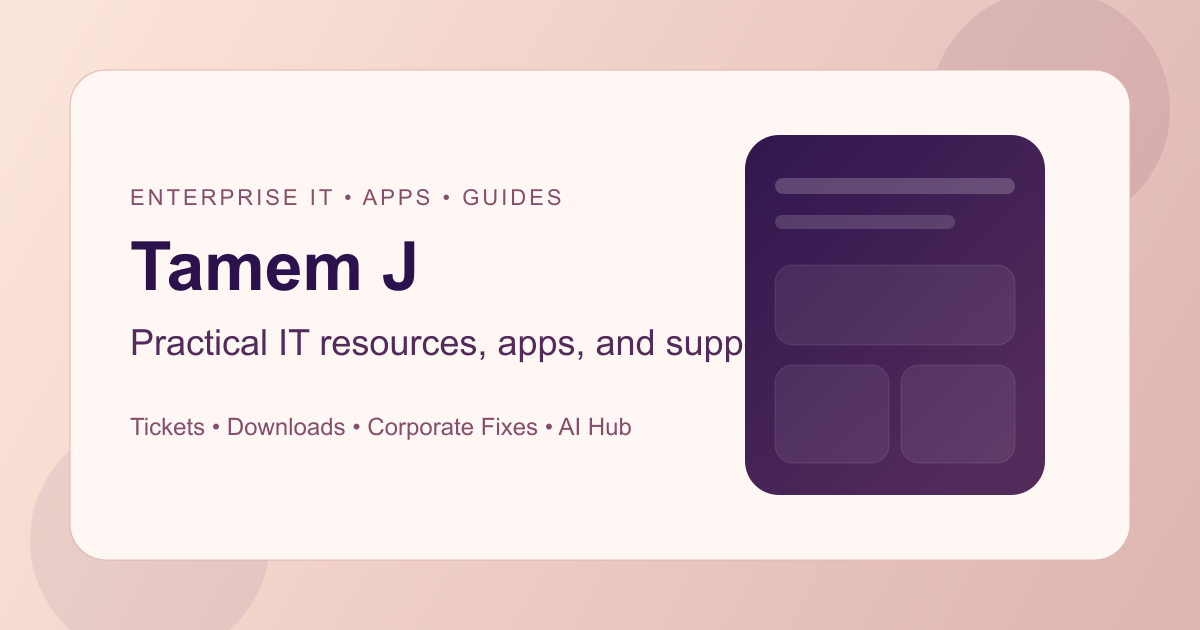
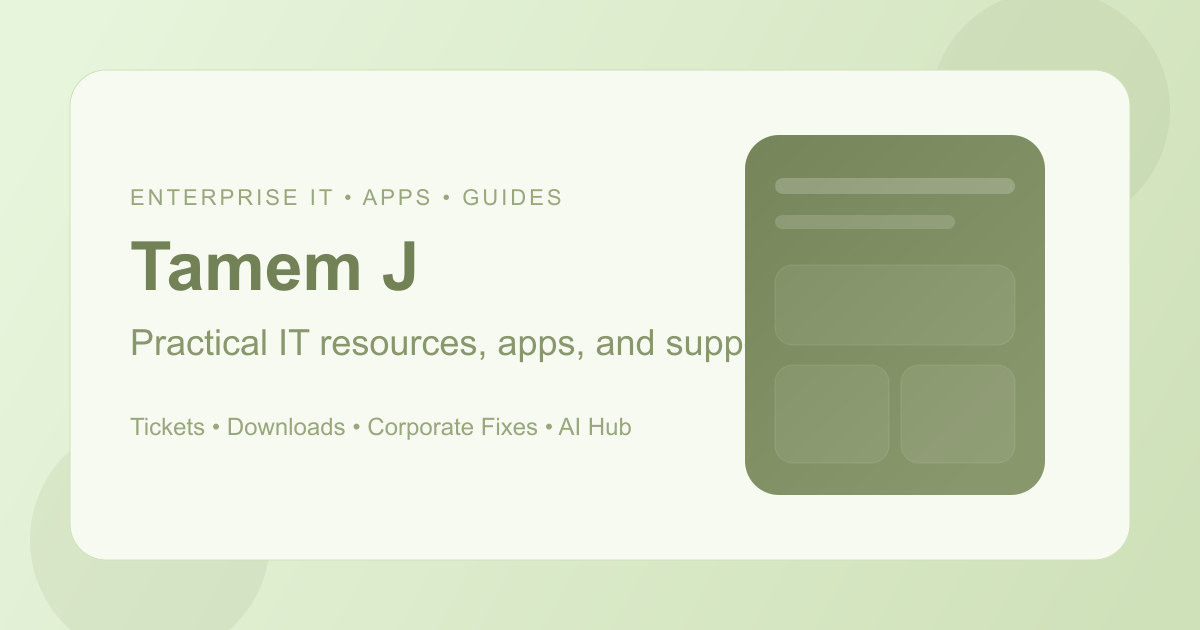
another color scheme

diff --git a/app/globals.css b/app/globals.css
@@ -3,25 +3,25 @@
 @tailwind utilities;
 
 :root {
-  --bg: 251 228 216;
-  --fg: 43 18 76;
-  --line: 223 182 178;
-  --card: 255 247 243;
-  --muted: 133 79 108;
-  --accent: 82 43 91;
-  --accent-soft: 223 182 178;
-  --accent-strong: 25 0 25;
+  --bg: 231 245 220;
+  --fg: 114 129 86;
+  --line: 207 225 185;
+  --card: 246 250 240;
+  --muted: 136 151 108;
+  --accent: 152 167 124;
+  --accent-soft: 182 201 155;
+  --accent-strong: 114 129 86;
 }
 
 .dark {
-  --bg: 25 0 25;
-  --fg: 251 228 216;
-  --line: 82 43 91;
-  --card: 43 18 76;
-  --muted: 223 182 178;
-  --accent: 133 79 108;
-  --accent-soft: 82 43 91;
-  --accent-strong: 223 182 178;
+  --bg: 114 129 86;
+  --fg: 231 245 220;
+  --line: 152 167 124;
+  --card: 136 151 108;
+  --muted: 207 225 185;
+  --accent: 182 201 155;
+  --accent-soft: 136 151 108;
+  --accent-strong: 231 245 220;
 }
 
 html {
@@ -30,8 +30,8 @@ html {
 
 body {
   background:
-    radial-gradient(circle at top left, rgb(var(--accent-soft) / 0.22), transparent 28%),
-    radial-gradient(circle at top right, rgb(var(--accent) / 0.14), transparent 26%),
+    radial-gradient(circle at top left, rgb(var(--accent-soft) / 0.28), transparent 28%),
+    radial-gradient(circle at top right, rgb(var(--accent) / 0.16), transparent 26%),
     linear-gradient(180deg, rgb(var(--bg)) 0%, rgb(var(--bg)) 100%);
   color: rgb(var(--fg));
   min-height: 100vh;
@@ -41,7 +41,7 @@ body {
   position: fixed;
   inset: 0;
   z-index: 80;
-  background: rgb(25 0 25 / 0.58);
+  background: rgb(114 129 86 / 0.58);
   backdrop-filter: blur(4px);
 }
 
@@ -109,7 +109,7 @@ body {
   }
 
   .btn-primary {
-    @apply inline-flex items-center justify-center rounded-full border border-accent/80 bg-accent px-5 py-3 text-sm font-semibold text-[#FBE4D8] transition hover:brightness-110;
+    @apply inline-flex items-center justify-center rounded-full border border-accent/80 bg-accent px-5 py-3 text-sm font-semibold text-bg transition hover:brightness-110;
   }
 
   .btn-secondary {
@@ -120,17 +120,17 @@ body {
 @layer utilities {
   .bg-mesh-soft {
     background-image:
-      radial-gradient(circle at 12% 10%, rgb(223 182 178 / 0.35), transparent 30%),
-      radial-gradient(circle at 85% 15%, rgb(133 79 108 / 0.14), transparent 28%),
-      radial-gradient(circle at 50% 100%, rgb(82 43 91 / 0.1), transparent 52%);
+      radial-gradient(circle at 12% 10%, rgb(182 201 155 / 0.4), transparent 30%),
+      radial-gradient(circle at 85% 15%, rgb(152 167 124 / 0.18), transparent 28%),
+      radial-gradient(circle at 50% 100%, rgb(136 151 108 / 0.12), transparent 52%);
     background-attachment: fixed;
   }
 
   .dark .bg-mesh-soft {
     background-image:
-      radial-gradient(circle at 10% 8%, rgb(133 79 108 / 0.28), transparent 26%),
-      radial-gradient(circle at 88% 14%, rgb(223 182 178 / 0.08), transparent 24%),
-      radial-gradient(circle at 50% 100%, rgb(82 43 91 / 0.2), transparent 50%);
+      radial-gradient(circle at 10% 8%, rgb(182 201 155 / 0.18), transparent 26%),
+      radial-gradient(circle at 88% 14%, rgb(231 245 220 / 0.08), transparent 24%),
+      radial-gradient(circle at 50% 100%, rgb(136 151 108 / 0.2), transparent 50%);
   }
 
   .text-balance {
@@ -147,28 +147,28 @@ body {
   }
 
   .bg-white {
-    background-color: rgb(255 247 243 / 0.92);
+    background-color: rgb(246 250 240 / 0.94);
   }
 
   .bg-slate-50,
   .bg-slate-50\/80 {
-    background-color: rgb(251 228 216 / 0.45);
+    background-color: rgb(231 245 220 / 0.52);
   }
 
   .bg-slate-100 {
-    background-color: rgb(223 182 178 / 0.26);
+    background-color: rgb(207 225 185 / 0.46);
   }
 
   .bg-slate-800 {
-    background-color: rgb(82 43 91);
+    background-color: rgb(136 151 108);
   }
 
   .bg-slate-900 {
-    background-color: rgb(43 18 76);
+    background-color: rgb(114 129 86);
   }
 
   .bg-slate-950 {
-    background-color: rgb(25 0 25);
+    background-color: rgb(104 118 80);
   }
 
   .bg-cyan-50,
@@ -178,7 +178,7 @@ body {
   .bg-emerald-50,
   .bg-rose-50,
   .bg-amber-50 {
-    background-color: rgb(223 182 178 / 0.26);
+    background-color: rgb(207 225 185 / 0.34);
   }
 
   .bg-cyan-600,
@@ -189,22 +189,22 @@ body {
   .bg-rose-900,
   .bg-amber-900,
   .bg-emerald-900 {
-    background-color: rgb(82 43 91 / 0.88);
+    background-color: rgb(152 167 124 / 0.9);
   }
 
   .bg-cyan-950,
   .bg-sky-950,
   .bg-blue-950 {
-    background-color: rgb(43 18 76 / 0.92);
+    background-color: rgb(114 129 86 / 0.92);
   }
 
   .border-slate-300 {
-    border-color: rgb(223 182 178);
+    border-color: rgb(207 225 185);
   }
 
   .border-slate-700,
   .border-slate-800 {
-    border-color: rgb(82 43 91);
+    border-color: rgb(152 167 124);
   }
 
   .border-cyan-200,
@@ -215,7 +215,7 @@ body {
   .border-emerald-200,
   .border-rose-200,
   .border-amber-200 {
-    border-color: rgb(223 182 178);
+    border-color: rgb(182 201 155);
   }
 
   .border-cyan-700,
@@ -228,21 +228,21 @@ body {
   .border-emerald-700,
   .border-rose-700,
   .border-amber-700 {
-    border-color: rgb(82 43 91);
+    border-color: rgb(152 167 124);
   }
 
   .text-slate-900,
   .text-slate-800 {
-    color: rgb(43 18 76);
+    color: rgb(114 129 86);
   }
 
   .text-slate-700 {
-    color: rgb(82 43 91);
+    color: rgb(136 151 108);
   }
 
   .text-slate-600,
   .text-slate-500 {
-    color: rgb(133 79 108);
+    color: rgb(136 151 108);
   }
 
   .text-cyan-900,
@@ -256,19 +256,19 @@ body {
   .text-emerald-700,
   .text-rose-700,
   .text-amber-700 {
-    color: rgb(82 43 91);
+    color: rgb(114 129 86);
   }
 
   .dark .dark\:bg-slate-800 {
-    background-color: rgb(82 43 91);
+    background-color: rgb(136 151 108);
   }
 
   .dark .dark\:bg-slate-900 {
-    background-color: rgb(43 18 76);
+    background-color: rgb(114 129 86);
   }
 
   .dark .dark\:bg-slate-950 {
-    background-color: rgb(25 0 25 / 0.92);
+    background-color: rgb(104 118 80 / 0.96);
   }
 
   .dark .dark\:bg-cyan-900,
@@ -281,7 +281,7 @@ body {
   .dark .dark\:bg-rose-900,
   .dark .dark\:bg-amber-900,
   .dark .dark\:bg-emerald-900 {
-    background-color: rgb(82 43 91 / 0.45);
+    background-color: rgb(136 151 108 / 0.45);
   }
 
   .dark .dark\:border-slate-700,
@@ -299,17 +299,17 @@ body {
   .dark .dark\:border-rose-700,
   .dark .dark\:border-amber-700,
   .dark .dark\:border-emerald-700 {
-    border-color: rgb(133 79 108);
+    border-color: rgb(182 201 155);
   }
 
   .dark .dark\:text-slate-100,
   .dark .dark\:text-slate-200 {
-    color: rgb(251 228 216);
+    color: rgb(231 245 220);
   }
 
   .dark .dark\:text-slate-300,
   .dark .dark\:text-slate-400 {
-    color: rgb(223 182 178);
+    color: rgb(207 225 185);
   }
 
   .dark .dark\:text-cyan-100,
@@ -324,70 +324,70 @@ body {
   .dark .dark\:text-emerald-100,
   .dark .dark\:text-rose-100,
   .dark .dark\:text-amber-100 {
-    color: rgb(251 228 216);
+    color: rgb(231 245 220);
   }
 
   .hover\:bg-slate-50:hover {
-    background-color: rgb(251 228 216 / 0.55);
+    background-color: rgb(231 245 220 / 0.62);
   }
 
   .hover\:bg-slate-800:hover {
-    background-color: rgb(82 43 91 / 0.95);
+    background-color: rgb(152 167 124 / 0.95);
   }
 
   .hover\:bg-slate-900:hover {
-    background-color: rgb(25 0 25);
+    background-color: rgb(136 151 108 / 0.98);
   }
 
   .hover\:text-slate-900:hover {
-    color: rgb(43 18 76);
+    color: rgb(114 129 86);
   }
 
   .dark .dark\:hover\:bg-slate-800:hover,
   .dark .dark\:hover\:bg-slate-900:hover {
-    background-color: rgb(82 43 91 / 0.98);
+    background-color: rgb(152 167 124 / 0.9);
   }
 
   .dark .dark\:hover\:text-slate-100:hover {
-    color: rgb(251 228 216);
+    color: rgb(231 245 220);
   }
 
   .hover\:bg-cyan-50:hover,
   .hover\:bg-cyan-100:hover,
   .hover\:bg-sky-50:hover,
   .hover\:bg-blue-50:hover {
-    background-color: rgb(223 182 178 / 0.36);
+    background-color: rgb(207 225 185 / 0.46);
   }
 
   .hover\:border-cyan-300:hover {
-    border-color: rgb(133 79 108);
+    border-color: rgb(136 151 108);
   }
 
   .hover\:text-cyan-800:hover {
-    color: rgb(43 18 76);
+    color: rgb(114 129 86);
   }
 
   .focus\:border-slate-400:focus {
-    border-color: rgb(133 79 108);
+    border-color: rgb(152 167 124);
   }
 
   .focus-visible\:ring-cyan-500:focus-visible {
-    --tw-ring-color: rgb(133 79 108 / 0.45);
+    --tw-ring-color: rgb(152 167 124 / 0.45);
   }
 
   .from-slate-950 {
-    --tw-gradient-from: rgb(25 0 25) var(--tw-gradient-from-position);
-    --tw-gradient-to: rgb(25 0 25 / 0) var(--tw-gradient-to-position);
+    --tw-gradient-from: rgb(114 129 86) var(--tw-gradient-from-position);
+    --tw-gradient-to: rgb(114 129 86 / 0) var(--tw-gradient-to-position);
     --tw-gradient-stops: var(--tw-gradient-from), var(--tw-gradient-to);
   }
 
   .via-slate-900 {
-    --tw-gradient-to: rgb(43 18 76 / 0) var(--tw-gradient-to-position);
-    --tw-gradient-stops: var(--tw-gradient-from), rgb(43 18 76) var(--tw-gradient-via-position), var(--tw-gradient-to);
+    --tw-gradient-to: rgb(136 151 108 / 0) var(--tw-gradient-to-position);
+    --tw-gradient-stops: var(--tw-gradient-from), rgb(136 151 108) var(--tw-gradient-via-position), var(--tw-gradient-to);
   }
 
   .to-cyan-950 {
-    --tw-gradient-to: rgb(82 43 91) var(--tw-gradient-to-position);
+    --tw-gradient-to: rgb(182 201 155) var(--tw-gradient-to-position);
   }
 }
 

diff --git a/tailwind.config.ts b/tailwind.config.ts
@@ -17,12 +17,12 @@ const config: Config = {
         sans: ["var(--font-inter)", "Inter", "system-ui", "sans-serif"]
       },
       boxShadow: {
-        soft: "0 10px 28px rgba(43, 18, 76, 0.12)",
-        card: "0 18px 46px rgba(43, 18, 76, 0.16)"
+        soft: "0 10px 28px rgba(114, 129, 86, 0.16)",
+        card: "0 18px 46px rgba(114, 129, 86, 0.22)"
       },
       backgroundImage: {
         "mesh-soft":
-          "radial-gradient(circle at 12% 10%, rgba(223,182,178,0.35), transparent 30%), radial-gradient(circle at 85% 15%, rgba(133,79,108,0.14), transparent 28%), radial-gradient(circle at 50% 100%, rgba(82,43,91,0.1), transparent 52%)"
+          "radial-gradient(circle at 12% 10%, rgba(182,201,155,0.4), transparent 30%), radial-gradient(circle at 85% 15%, rgba(152,167,124,0.18), transparent 28%), radial-gradient(circle at 50% 100%, rgba(136,151,108,0.12), transparent 52%)"
       }
     }
   },

diff --git a/components/app-store-button.tsx b/components/app-store-button.tsx
@@ -27,7 +27,7 @@ export function AppStoreButton({
       href={href}
       target="_blank"
       rel="noreferrer"
-      className={`inline-flex items-center justify-center rounded-full border border-accent/80 bg-accent px-4 py-2.5 text-sm font-semibold text-[#FBE4D8] transition hover:brightness-110 ${className}`}
+      className={`inline-flex items-center justify-center rounded-full border border-accent/80 bg-accent px-4 py-2.5 text-sm font-semibold text-bg transition hover:brightness-110 ${className}`}
       aria-label="Download on the App Store"
     >
       Download on the App Store

diff --git a/app/layout.tsx b/app/layout.tsx
@@ -63,7 +63,7 @@ export const metadata: Metadata = {
 export const viewport: Viewport = {
   width: "device-width",
   initialScale: 1,
-  themeColor: "#FBE4D8"
+  themeColor: "#E7F5DC"
 };
 
 export default function RootLayout({ children }: Readonly<{ children: ReactNode }>) {
